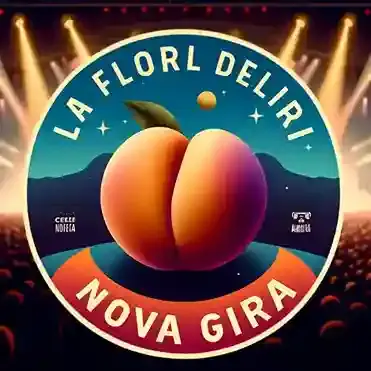
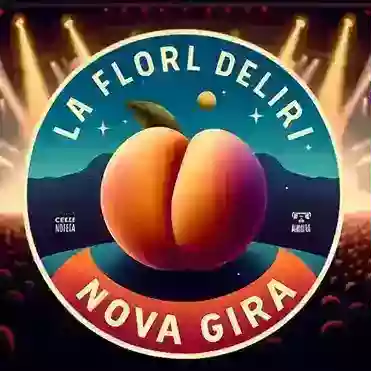
modificació iamtgeDestacada2 Millorada en web

diff --git a/src/wiews/detall.html b/src/wiews/detall.html
@@ -45,7 +45,7 @@
       <section class="imatge__principal">
       <section >
         <picture>
-          <source  class="imatgeDestacada__detall" media="(max-width: 600px)" srcset="../assets/images/imatgedestacada.65475936.webp">
+          <source  class="imatgeDestacada__detall" media="(max-width: 600px)" srcset="../assets/images/imatgeDestacada2.webp">
 
           <img class="imatgeDestacada__detall" src="../assets/images/imatgedestacadahortizontal.webp" alt="imatge Destacada" >
         </picture>
